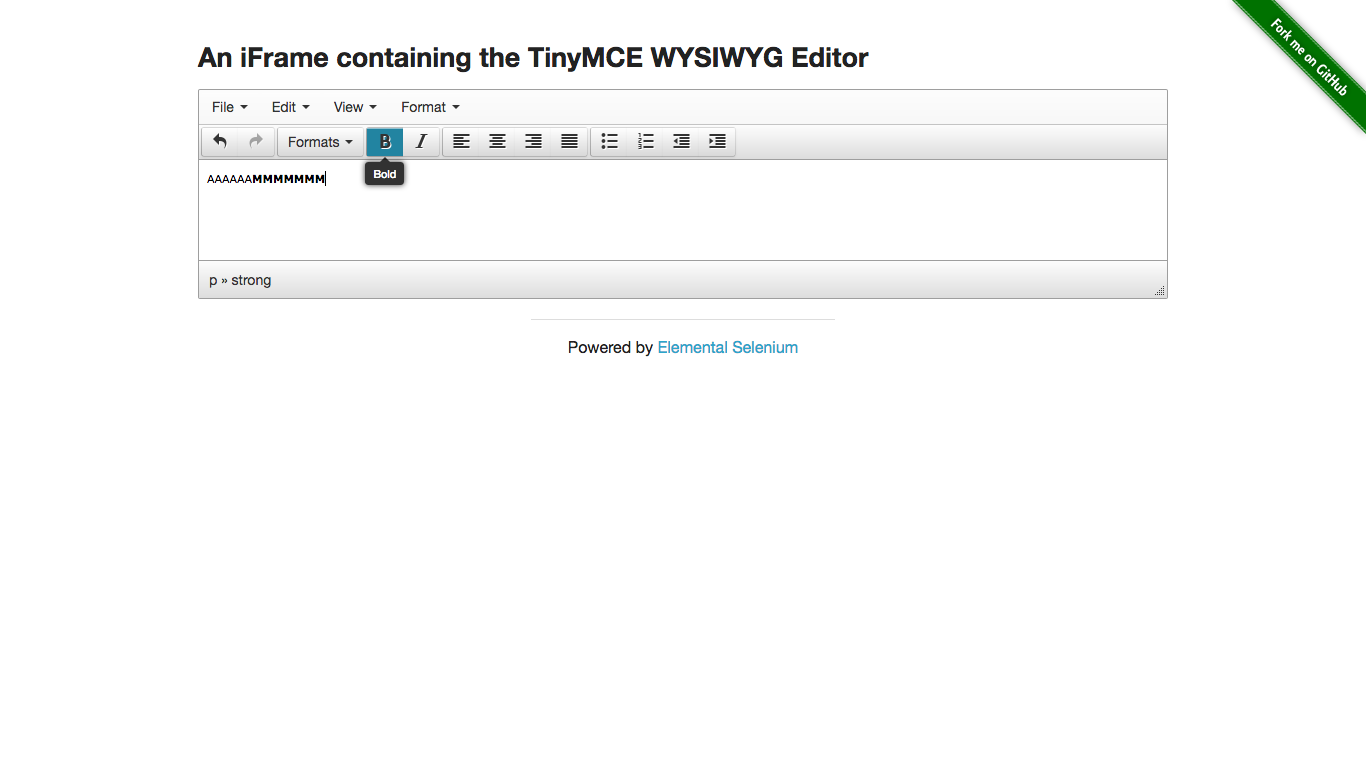
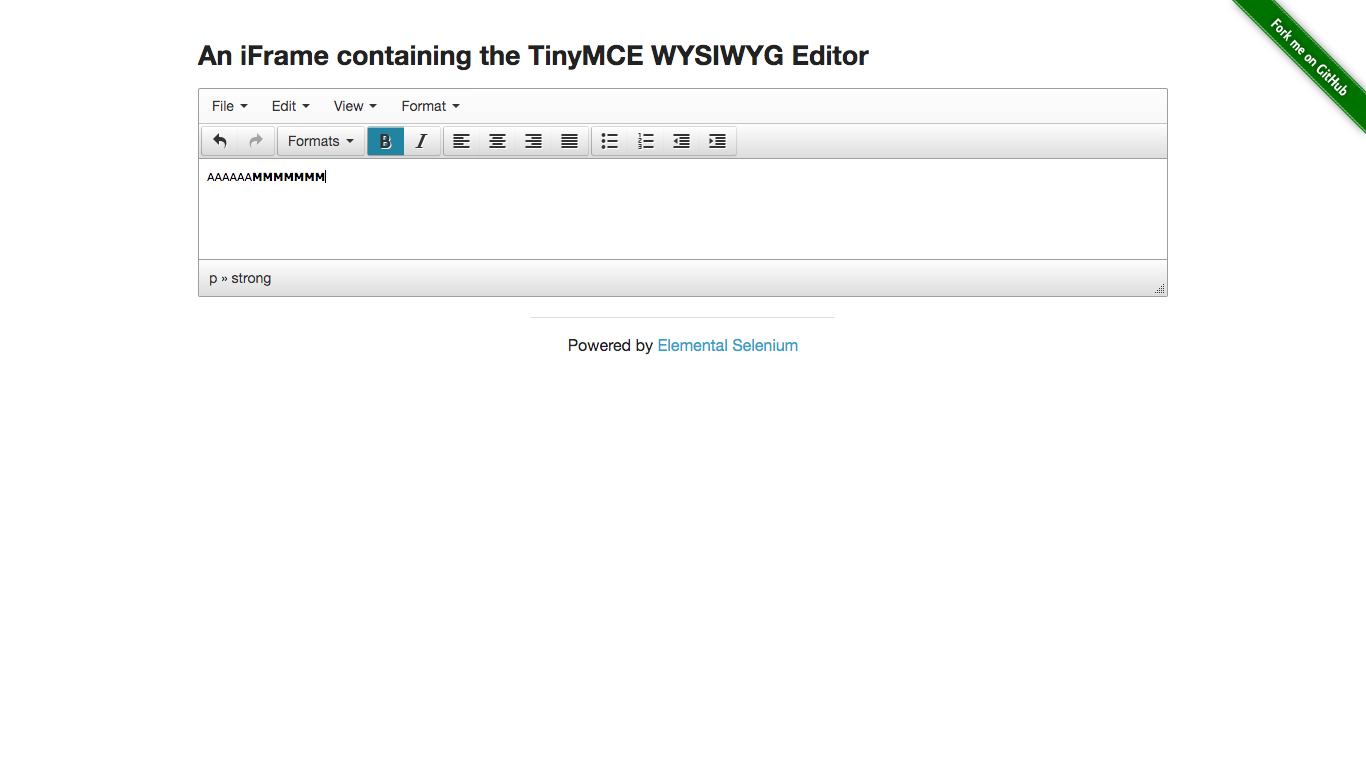
Добавила тесты: проверка чекбоксов, ссылок, окон, восстановление пароля

diff --git a/tests/login_test.js b/tests/login_test.js
@@ -1,0 +1,35 @@
+Feature('login');
+
+const loginPage = require('../pages/loginPage')
+
+Scenario('Успешная авторизация', (I) => {
+    I.amOnPage(loginPage.url)
+    I.fillField(loginPage.username, 'tomsmith')
+    I.fillField(loginPage.password, 'SuperSecretPassword!')
+    I.click(loginPage.button.login)
+    I.see('You logged into a secure area!')
+});
+
+Scenario('Появление уведомления о неуспешной авторизации', (I) => {
+    I.amOnPage(loginPage.url)
+    I.fillField(loginPage.username, 'tomsmith')
+    I.fillField(loginPage.password, 'SuperSecre')
+    I.click(loginPage.button.login)
+    I.see('Your password is invalid!')
+});
+
+Scenario('Регистразависимости логина', (I) => {
+    I.amOnPage(loginPage.url)
+    I.fillField(loginPage.username, 'TOMSMITH')
+    I.fillField(loginPage.password, 'SuperSecretPassword!')
+    I.click(loginPage.button.login)
+    I.see('Your username is invalid!')
+});
+
+Scenario('Невалидный логин,если в конце пробел', (I) => {
+    I.amOnPage(loginPage.url)
+    I.fillField(loginPage.username, 'tomsmith ')
+    I.fillField(loginPage.password, 'SuperSecre')
+    I.click(loginPage.button.login)
+    I.see('Your username is invalid!')
+});

diff --git a/tests/alerts_test.js b/tests/alerts_test.js
@@ -1,0 +1,28 @@
+Feature('alerts');
+
+const alertsPage = require('../pages/alertsPage')
+
+Scenario('Подтверждение алерта', (I) => {
+    I.amOnPage(alertsPage.url);
+    I.click(alertsPage.button.jsAlert);
+    I.seeInPopup("I am a JS Alert");
+    I.acceptPopup();
+    I.waitForText('You successfuly clicked an alert');
+});
+
+Scenario('Закрытие алерта', (I) => {
+    I.amOnPage(alertsPage.url);
+    I.click(alertsPage.button.jsConfirm);
+    I.seeInPopup("I am a JS Confirm");
+    I. cancelPopup();
+    I.waitForText('You clicked: Cancel')    
+});
+
+//Popup action does not fit the expected action type. Expected popup action to be 'accept' not 'cancel
+
+Scenario('Заполнить текст в алерте', (I) => {
+    I.amOnPage(alertsPage.url);
+    I.click(alertsPage.button.jsPrompt);
+    I.fillField('I am a JS prompt', 'fffdgffdgdf');
+    I.acceptPopup();
+});

diff --git a/tests/wysiwyg_test.js b/tests/wysiwyg_test.js
@@ -1,0 +1,18 @@
+Feature('Editor');
+const wysiwygPage = require('../pages/wysiwygPage')
+
+Scenario('Работа с WYSIWYG Editor', (I) => {
+    I.amOnPage(wysiwygPage.url);
+    I.click('WYSIWYG Editor');
+    I.switchTo(wysiwygPage.iframe);
+    I.click(wysiwygPage.field);
+    I.pressKey(['CommandOrControl', 'A']);
+    I.clearField(wysiwygPage.field);
+    I.fillField(wysiwygPage.field,'АААААА');
+    I.switchTo();
+    I.click(wysiwygPage.button.bold);
+    I.switchTo(wysiwygPage.iframe);
+    I.fillField(wysiwygPage.field,'MMMMMMM');
+    I.saveScreenshot('really_bold_test.png');
+
+});

diff --git a/tests/checkboxes_test.js b/tests/checkboxes_test.js
@@ -1,0 +1,14 @@
+Feature('checkboxes');
+
+const checkboxesPage = require('../pages/checkboxesPage')
+
+Scenario('Проверка чекбоксов', (I) => {
+    I.amOnPage(checkboxesPage.url);
+    I.dontSeeCheckboxIsChecked(checkboxesPage.checkbox1);
+    I.seeCheckboxIsChecked(checkboxesPage.checkbox2);
+    I.click(checkboxesPage.checkbox1);
+    I.seeCheckboxIsChecked(checkboxesPage.checkbox1);
+    I.click(checkboxesPage.checkbox2);
+    I.dontSeeCheckboxIsChecked(checkboxesPage.checkbox2);
+
+});

diff --git a/tests/dropdown_test.js b/tests/dropdown_test.js
@@ -1,0 +1,16 @@
+Feature('dropdown');
+
+const dropdownPage = require('../pages/dropdownPage')
+
+Scenario('Выбираем опцию по значению', (I) => {
+    I.amOnPage(dropdownPage.url);
+    I.selectOption(dropdownPage.dropdown, 'Option 1');
+    I.waitForValue(dropdownPage.dropdown, '1')
+});
+
+
+Scenario('Выбираем опцию по тексту', (I) => {
+    I.amOnPage(dropdownPage.url);
+    I.selectOption(dropdownPage.dropdown, '2');
+    I.waitForText('Option 2')
+});

diff --git a/tests/links_test.js b/tests/links_test.js
@@ -1,0 +1,15 @@
+Feature('links');
+
+const linksPage = require('../pages/linksPage')
+
+Scenario('Переходы по ссылкам', (I) => {
+    I.amOnPage(linksPage.url);
+    I.scrollTo(linksPage.fileDownload);
+    I.click(linksPage.fileDownload);
+    I.waitForElement('//h3[text()="File Downloader"]', 5);
+    I.executeScript("window.history.back();");
+    I.scrollTo(linksPage.fileUpload);
+    I.click(linksPage.fileUpload);
+    I.waitForElement('//h3[text()="File Uploader"]')
+
+});

diff --git a/codecept.conf.js b/codecept.conf.js
@@ -1,11 +1,11 @@
-const { setHeadlessWhen } = require('@codeceptjs/configure');
+const { setHeadlessWhen } = require('./node_modules/@codeceptjs/configure');
 
 // turn on headless mode when running with HEADLESS=true environment variable
 // HEADLESS=true npx codecept run
 setHeadlessWhen(process.env.HEADLESS);
 
 exports.config = {
-  tests: './*_test.js',
+  tests: './tests/*_test.js',
   output: './output',
   helpers: {
     Puppeteer: {

diff --git a/tests/forgotPassword_test.js b/tests/forgotPassword_test.js
@@ -1,0 +1,10 @@
+Feature('forgotPassword');
+
+const forgotPasswordPage = require('../pages/forgotPasswordPage')
+
+Scenario('Восстановление пароля', (I) => {
+    I.amOnPage(forgotPasswordPage.url);
+    I.fillField(forgotPasswordPage.email, '123@mail.ru');
+    I.click(forgotPasswordPage.button.retrievePassword);
+    I.waitInUrl('/email_sent',3)
+});

diff --git a/pages/alertsPage.js b/pages/alertsPage.js
@@ -1,0 +1,11 @@
+const { I } = inject();
+
+module.exports = {
+
+  url: 'https://the-internet.herokuapp.com/javascript_alerts',
+  button: {
+    jsAlert: {xpath: '//button[@onclick="jsAlert()"]'},
+    jsConfirm: {xpath: '//button[@onclick="jsConfirm()"]'},
+    jsPrompt: {xpath:  '//button[@onclick="jsPrompt()"]'}
+  }
+}

diff --git a/tests/windows_test.js b/tests/windows_test.js
@@ -1,0 +1,10 @@
+Feature('windows');
+const windowsPage = require('../pages/windowsPage')
+
+Scenario('Переход по вкладкам', (I) => {
+    I.amOnPage(windowsPage.url);
+    I.click(windowsPage.newWindow);
+    I.seeInTitle('New Window');
+    I.dontSeeInTitle('The internet')
+
+});

diff --git a/pages/checkboxesPage.js b/pages/checkboxesPage.js
@@ -1,0 +1,10 @@
+const { I } = inject();
+
+module.exports = {
+
+  url: 'http://the-internet.herokuapp.com/checkboxes',
+  checkbox1: {xpath: '//*[@id="checkboxes"]/input[1]'},   
+  checkbox2: {xpath: '//*[@id="checkboxes"]/input[2]'},
+}
+
+//  //input[text()=" checkbox 1"]

diff --git a/tests/hovers_test.js b/tests/hovers_test.js
@@ -1,0 +1,9 @@
+Feature('hovers');
+
+const hoversPage = require('../pages/hoversPage')
+
+Scenario('Наведение курсора на иконку', (I) => {
+    I.amOnPage(hoversPage.url)
+    I.moveCursorTo(hoversPage.avatar)
+    I.seeElement(hoversPage.hover)
+});
